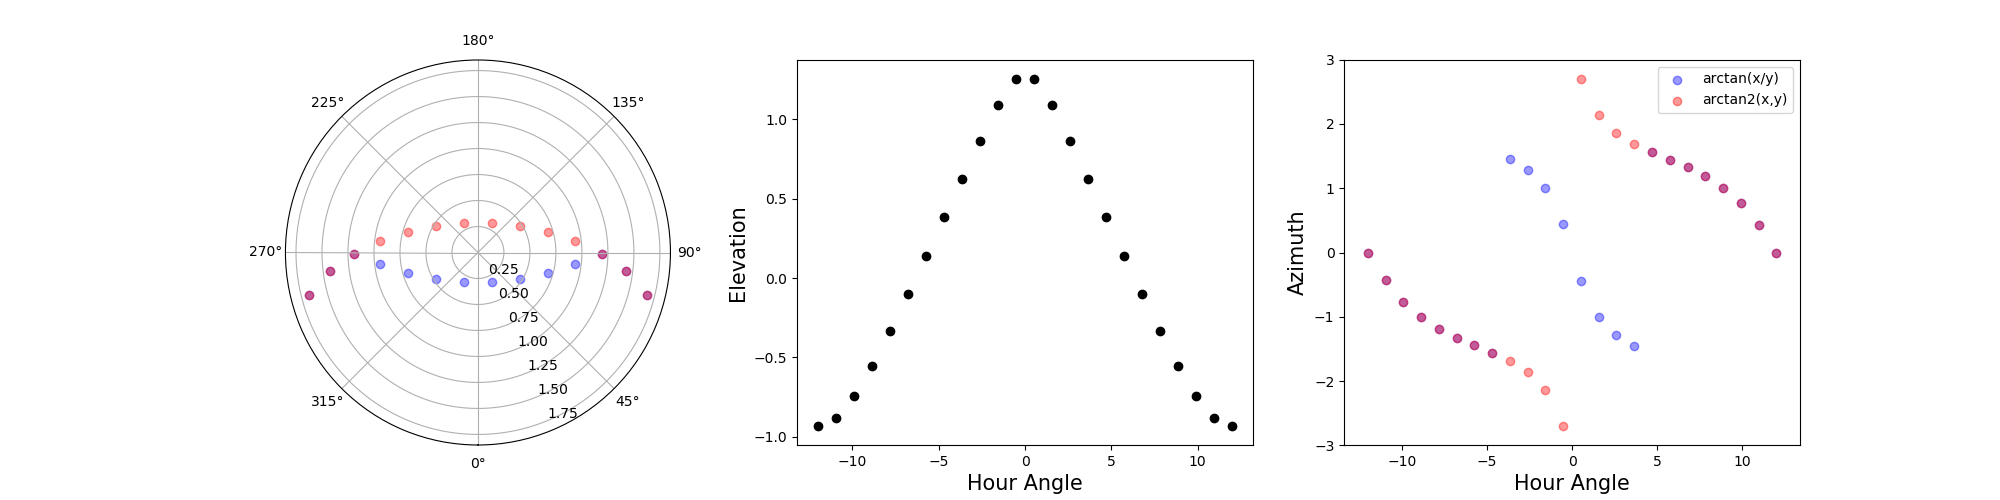
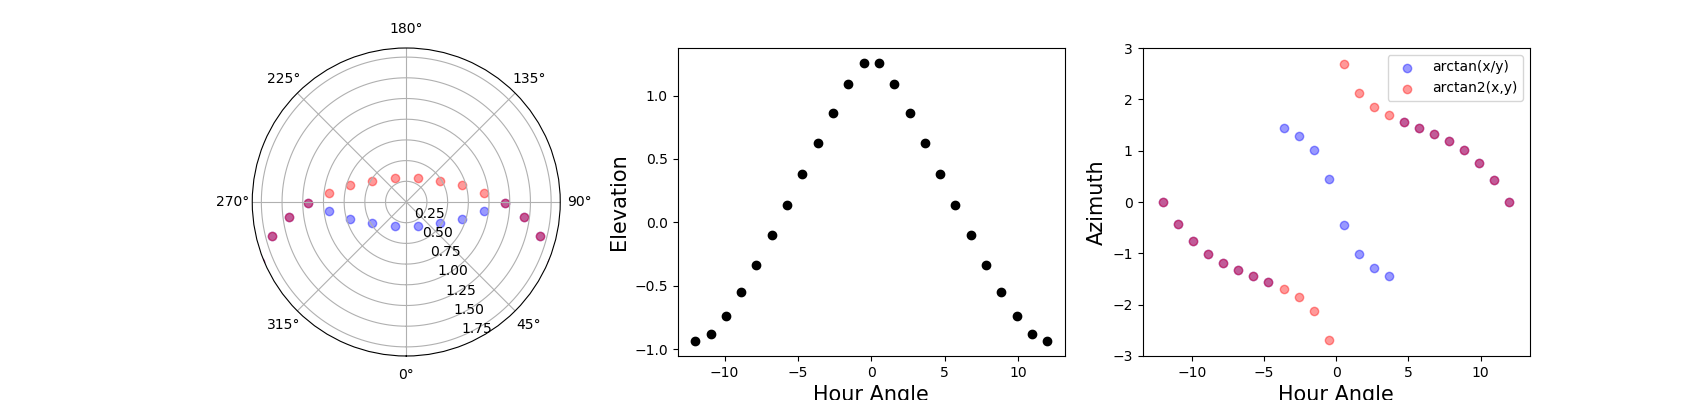
Made things more readable

diff --git a/Conversion.py b/Conversion.py
@@ -28,7 +28,7 @@ elevation, azimuth, azimuth2 = from_celestial_to_horizontal(hour_angles/24*2*num
 print(elevation)
 print(numpy.deg2rad(azimuth))
 
-fig = pyplot.figure(figsize=(20,5))
+fig = pyplot.figure(figsize=(17,4))
 axes1= fig.add_subplot(131, polar = True)
 axes2= fig.add_subplot(132)
 axes3= fig.add_subplot(133)
